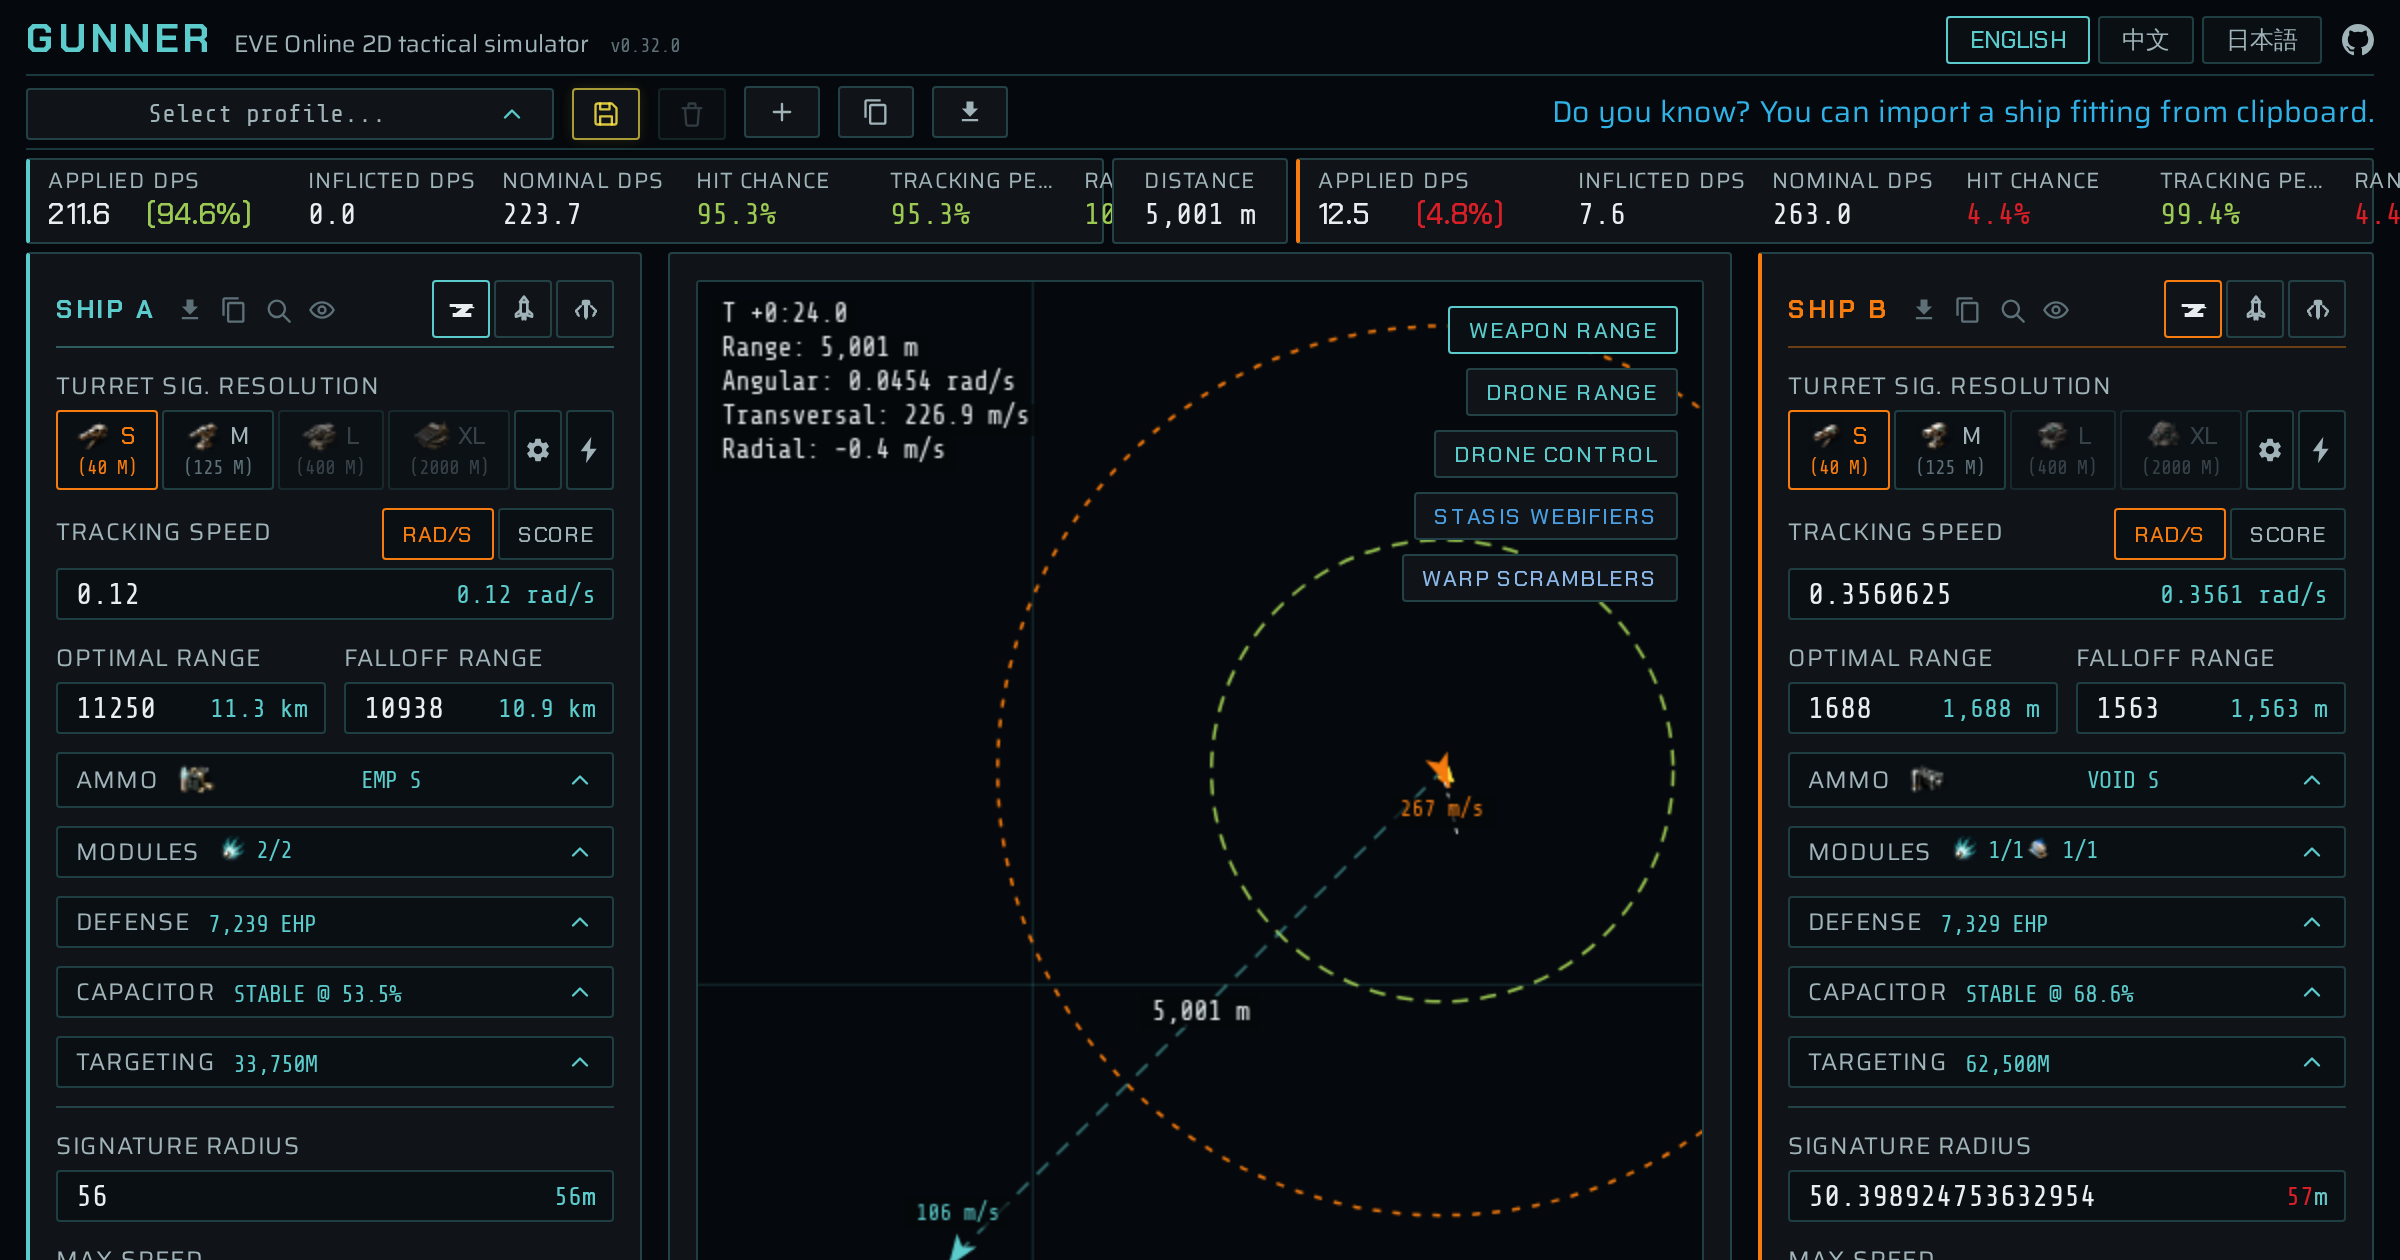
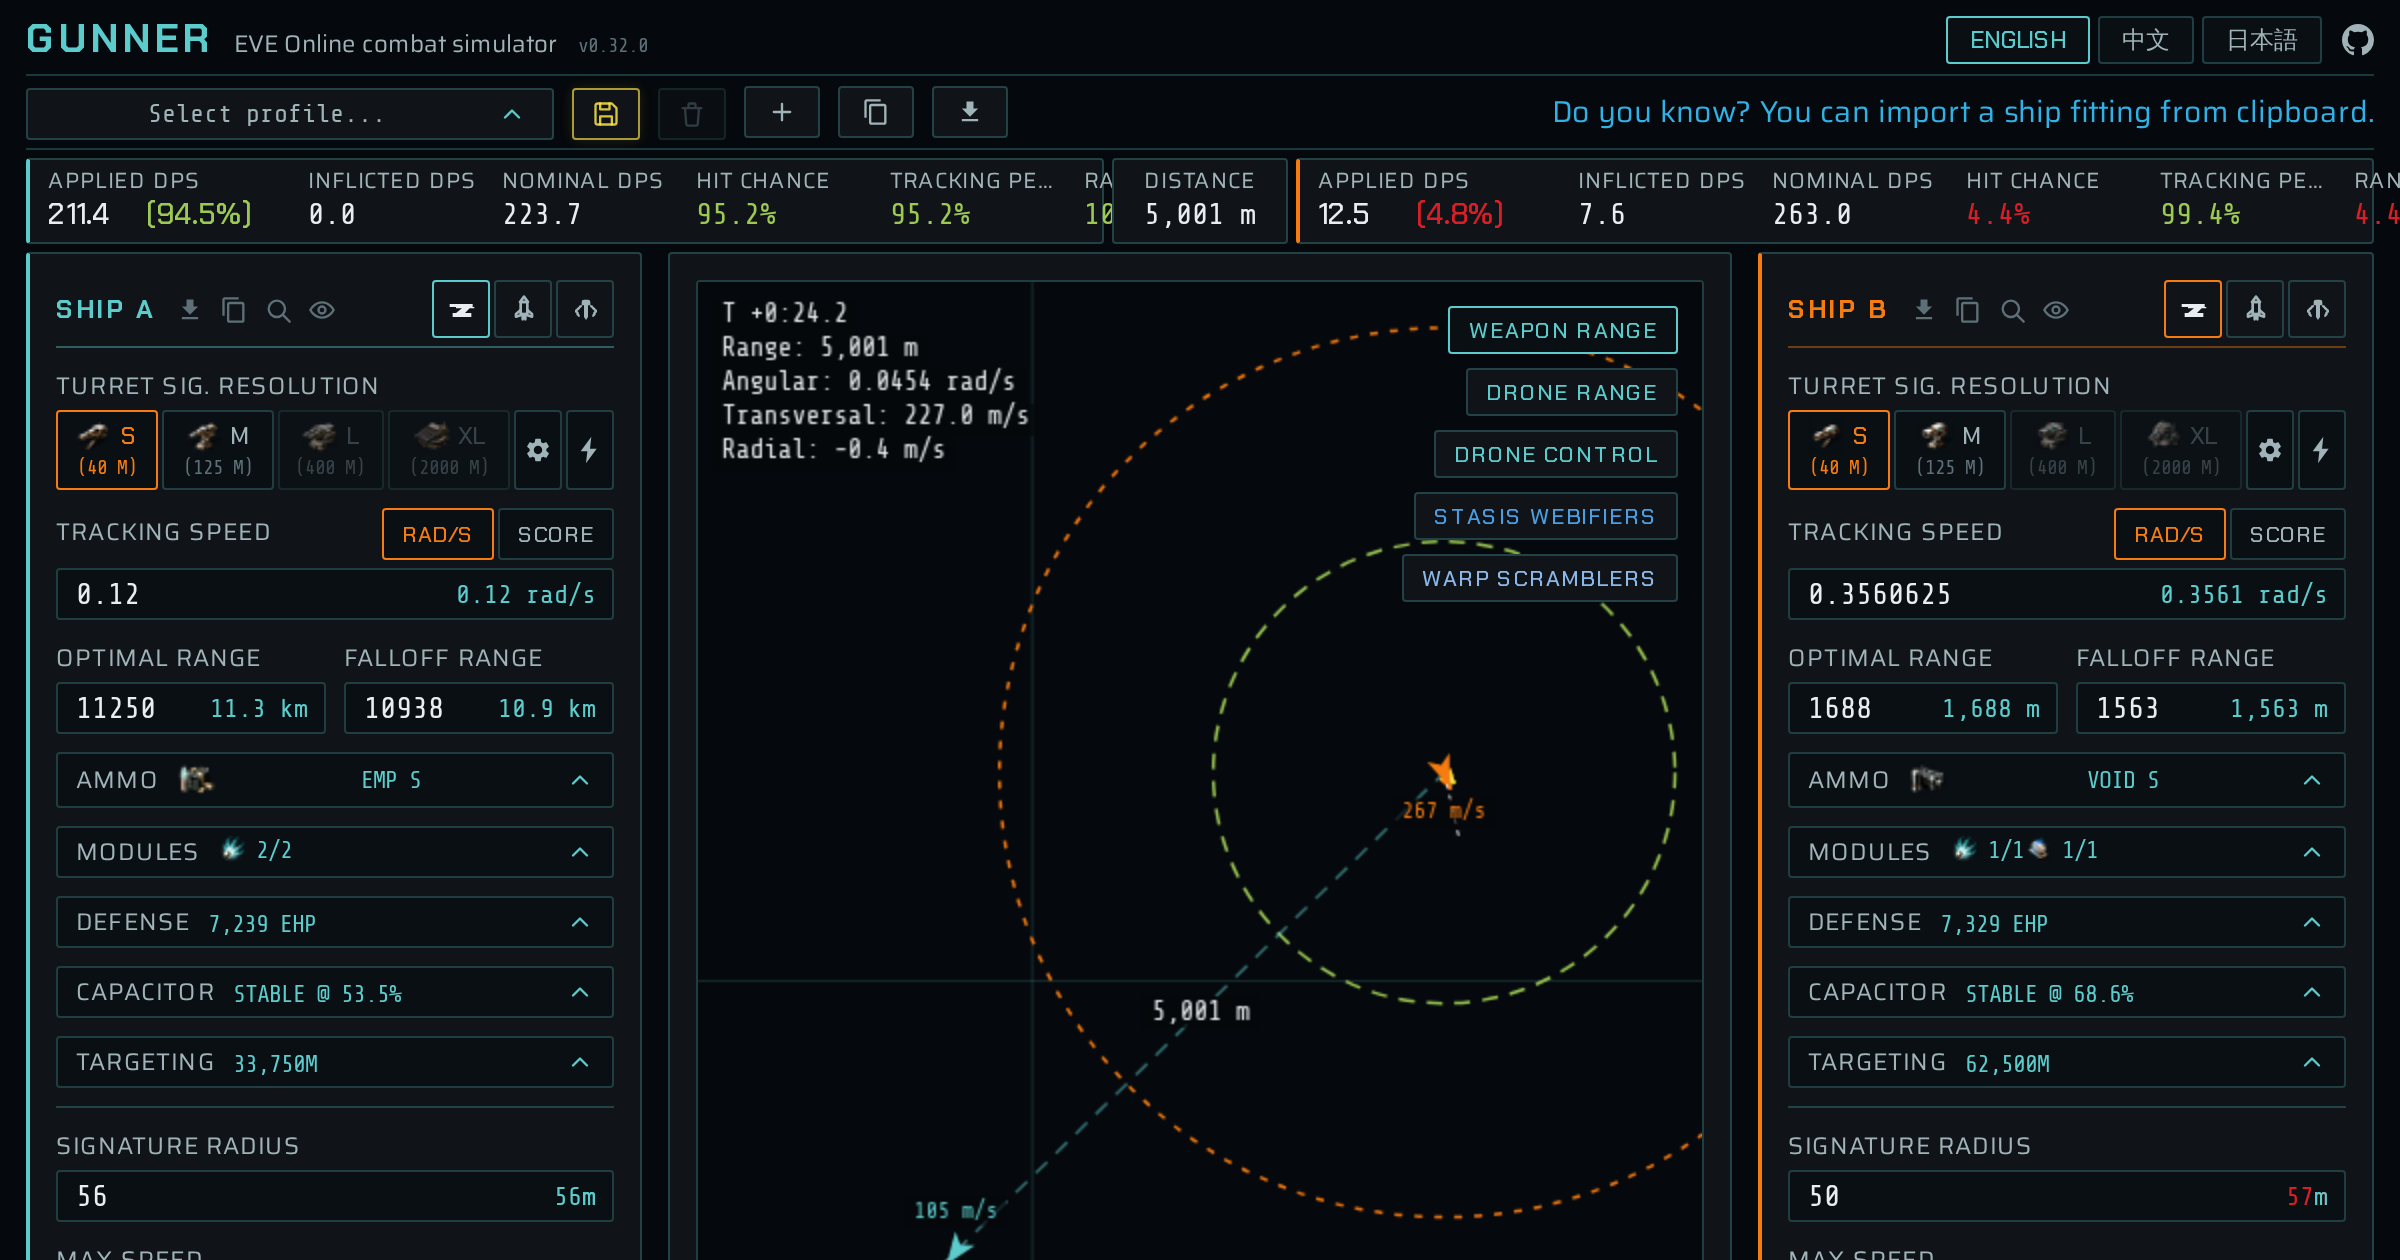
feat(seo): align app subtitle with combat simulator keyword
- subtitle reads EVE Online combat simulator in en/zh/ja, matching the
  title tag and intro copy with the primary keyword
- regenerate og-image from the local build with the new subtitle
- round the signature radius display to whole meters (float noise was
  visible in the og-image ship B panel)

diff --git a/src/ui/controls/sidePanel/statsSection.test.ts b/src/ui/controls/sidePanel/statsSection.test.ts
@@ -96,6 +96,18 @@ describe("StatsSection", () => {
     expect(getFake(document, "ship-a-sig").value).toBe("30");
   });
 
+  test("updateShipStats rounds signature radius to whole meters", () => {
+    const ships = vi.mocked<Ships>(mockShips());
+    ships.fittedStats = vi.fn(() => ({ mass: 1_000_000, inertiaModifier: 2, sigRadius: 50.39892475, sigBloomFactor: 0, maxSpeed: 0, baseMaxSpeed: 0, alignTime: 0 }));
+    const { document, panel, section } = buildStatsSection(ships);
+    panel.profile = RIFTER;
+    getFake(document, "ship-a-mass").value = "0";
+    getFake(document, "ship-a-inertia").value = "0";
+    getFake(document, "ship-a-speed").value = "0";
+    section.updateShipStats({ updateInertia: true, updateMass: true, updateSig: true });
+    expect(getFake(document, "ship-a-sig").value).toBe("50");
+  });
+
   test("updateShipStats respects mass override", () => {
     const { document, panel, section, overrides } = buildStatsSection();
     panel.profile = RIFTER;
@@ -142,7 +154,7 @@ describe("StatsSection", () => {
 
       const sigInput = Number(getFake(document, "ship-a-sig").value);
       const baseSig = ships.fittedStats(rifter, undefined, mwd5, { skillLevel: 5, overloaded: true, weaponOverloaded: false }).sigRadius;
-      expect(sigInput).toBeCloseTo(baseSig, 6);
+      expect(sigInput).toBe(Math.round(baseSig));
       expect(section.currentSigBloomFactor()).toBeGreaterThan(0);
       expect(sigInput).toBeLessThan(baseSig * (1 + section.currentSigBloomFactor()));
     });

diff --git a/src/ui/controls/sidePanel/statsSection.ts b/src/ui/controls/sidePanel/statsSection.ts
@@ -51,7 +51,7 @@ export class StatsSection implements IStatsSection {
         this.els.inertia.value = formatNumber(stats.inertiaModifier, 6);
       }
       if (updateSig && !this.isOverridden(sigKey)) {
-        this.els.shipSig.value = String(Math.max(1, stats.sigRadius));
+        this.els.shipSig.value = String(Math.max(1, Math.round(stats.sigRadius)));
       }
     }
 

diff --git a/src/ui/i18n/dictionary-ja.ts b/src/ui/i18n/dictionary-ja.ts
@@ -1,7 +1,7 @@
 import type { LanguageSlice } from "./dictionaryTypes";
 
 export const JA: LanguageSlice<"ja"> = {
-  "app.subtitle": { ja: "EVE Online 2D 戦術シミュレーター" },
+  "app.subtitle": { ja: "EVE Online コンバットシミュレーター" },
   "lang.en": { ja: "English" },
   "lang.zh": { ja: "中文" },
   "lang.ja": { ja: "日本語" },

diff --git a/src/ui/i18n/dictionary-en.ts b/src/ui/i18n/dictionary-en.ts
@@ -1,7 +1,7 @@
 import type { LanguageSlice } from "./dictionaryTypes";
 
 export const EN: LanguageSlice<"en"> = {
-  "app.subtitle": { en: "EVE Online 2D tactical simulator" },
+  "app.subtitle": { en: "EVE Online combat simulator" },
   "lang.en": { en: "English" },
   "lang.zh": { en: "中文" },
   "lang.ja": { en: "日本語" },

diff --git a/src/ui/i18n/dictionary-zh.ts b/src/ui/i18n/dictionary-zh.ts
@@ -1,7 +1,7 @@
 import type { LanguageSlice } from "./dictionaryTypes";
 
 export const ZH: LanguageSlice<"zh"> = {
-  "app.subtitle": { zh: "EVE Online 2D 战术模拟器" },
+  "app.subtitle": { zh: "EVE Online 战斗模拟器" },
   "lang.en": { zh: "English" },
   "lang.zh": { zh: "中文" },
   "lang.ja": { zh: "日本語" },
